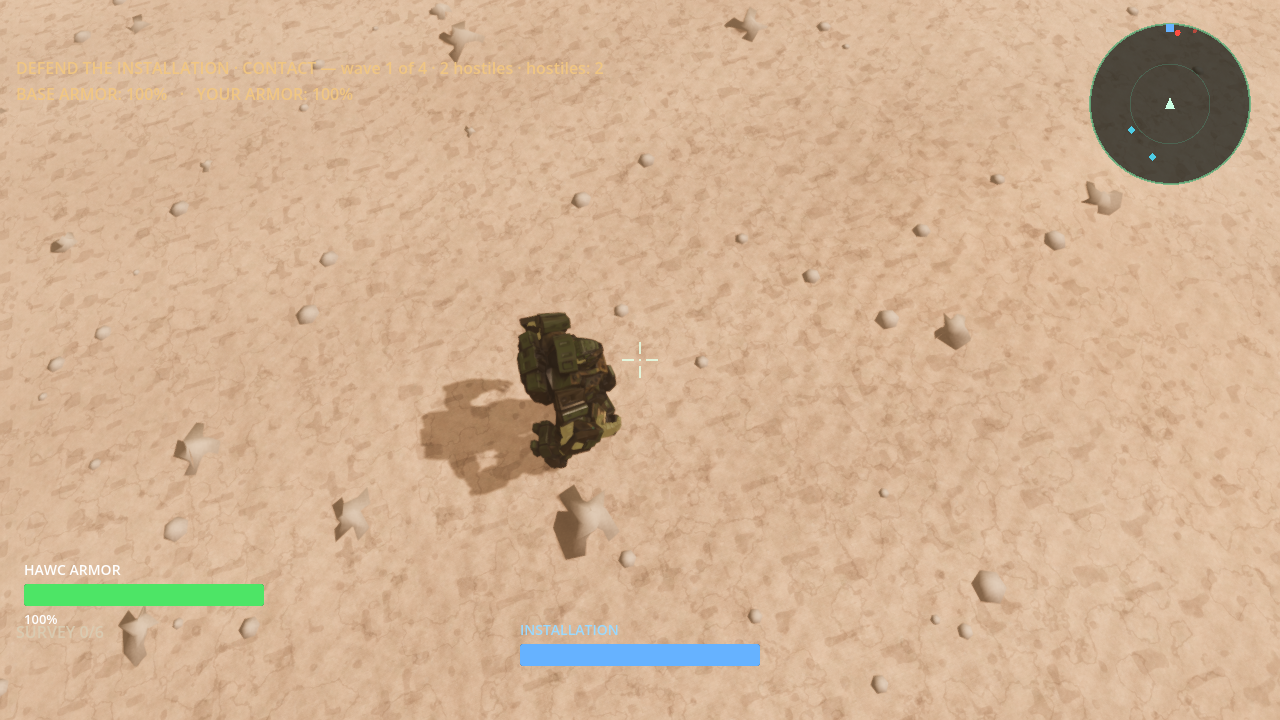
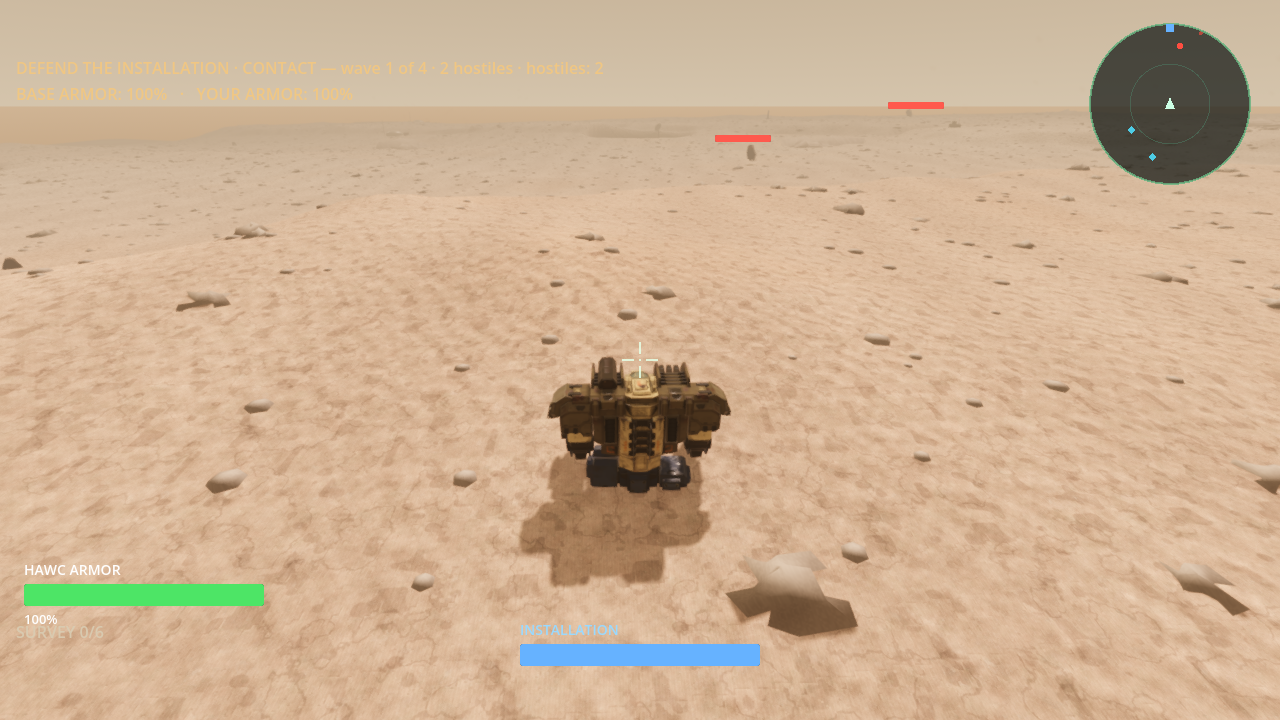
Update devlog with the new hero mech; tighten follow camera
- Follow camera pulled in for the 7 m hero mech: distance 17->12, height
  8->6, look 5.5->4.5 (defaults + board-into call). Mech fills the frame
  more, more cinematic over-shoulder feel.
- Devlog: new hero-mech portrait + 'rebuilt' callout, fresh gameplay/intro
  screenshots, Phase 1 marked Shipped, honest-note updated (mech is no
  longer a placeholder). Removed orphaned gameplay_mech2.png.

diff --git a/docs/index.html b/docs/index.html
@@ -133,14 +133,25 @@
       <div class="card"><h3><span class="dot"></span>Drivable HAWC + HUD</h3><p>WASD + jump, mouse aim, health/shield bars, minimap radar, wave-defense combat.</p></div>
     </div>
 
+    <div class="cols" style="margin-top:22px;align-items:center">
+      <figure style="margin:0;text-align:center;background:var(--panel);border:1px solid var(--line);border-radius:10px;padding:10px">
+        <img src="img/hero_mech.png" alt="The player HAWC — Striker-class combat mech" style="width:100%;max-width:340px;height:auto">
+      </figure>
+      <div>
+        <h3 style="margin:0 0 6px">New: the player HAWC, rebuilt</h3>
+        <p style="color:var(--muted);margin:0 0 10px">The player mech is now a real ~7&nbsp;m rigged combat walker — cockpit, twin missile pods, gun-arm, reverse-jointed legs, weathered armor. It carries 41 animations (walk, run, jump, hit, melee).</p>
+        <p style="color:var(--muted);margin:0"><strong style="color:var(--gold)">~50× lighter</strong> than the old placeholder it replaced (243&nbsp;MB → ~10&nbsp;MB), with a proper HAWC silhouette. Union-tinted so it reads distinct from enemy mechs.</p>
+      </div>
+    </div>
+
     <div class="gal" style="margin-top:22px">
-      <figure><img src="img/gameplay_mech.png" alt="HAWC mech on Mars terrain with HUD"><figcaption>In-mission: your HAWC on Martian terrain, with HUD and radar.</figcaption></figure>
+      <figure><img src="img/gameplay_intro.png" alt="Mission intro card over Mars with the player HAWC"><figcaption>Mission start: story briefing over the Martian battlefield.</figcaption></figure>
+      <figure><img src="img/gameplay_mech.png" alt="Player HAWC on Mars terrain with HUD"><figcaption>In-mission: your HAWC on Martian terrain, with HUD and radar.</figcaption></figure>
       <figure><img src="img/orbital_arrival.png" alt="Drop-ship descending over Mars"><figcaption>Orbital arrival: the drop-ship descends over the real Mars globe.</figcaption></figure>
       <figure><img src="img/mars_terrain.png" alt="Mars terrain with impact crater"><figcaption>Walkable terrain built from real HiRISE elevation data.</figcaption></figure>
-      <figure><img src="img/gameplay_mech2.png" alt="HAWC mech, alternate angle"><figcaption>Third-person mech control — momentum-based movement.</figcaption></figure>
     </div>
     <p class="hero-cap" style="text-align:left;margin-top:14px">
-      Honest note: the terrain reads flat/pale and the mech is a placeholder — those are exactly what the current build phase is rebuilding (see below).
+      Honest note: work-in-progress. The player HAWC was just rebuilt (a real ~7&nbsp;m rigged mech, down from a 243&nbsp;MB placeholder); terrain atmosphere and the enemy roster are next.
     </p>
   </div>
 </section>
@@ -161,8 +172,8 @@
     <div class="phase">
       <div class="no">1</div>
       <div class="body"><h3>Hero mech</h3>
-        <p>Replace the 243&nbsp;MB placeholder mech with one excellent, purpose-built HAWC — 4K PBR, right silhouette, great to look at and control. "Make one mech feel great on an empty plane."</p></div>
-      <span class="status now">In progress</span>
+        <p>Player HAWC rebuilt: a real ~7&nbsp;m rigged combat mech (cockpit, missile pods, gun-arm, reverse-jointed legs) with 41 animations — replacing the 243&nbsp;MB placeholder. ~50× smaller, proper silhouette. Camera tightened around it. Polish/materials still to come.</p></div>
+      <span class="status done">Shipped</span>
     </div>
 
     <div class="phase">
